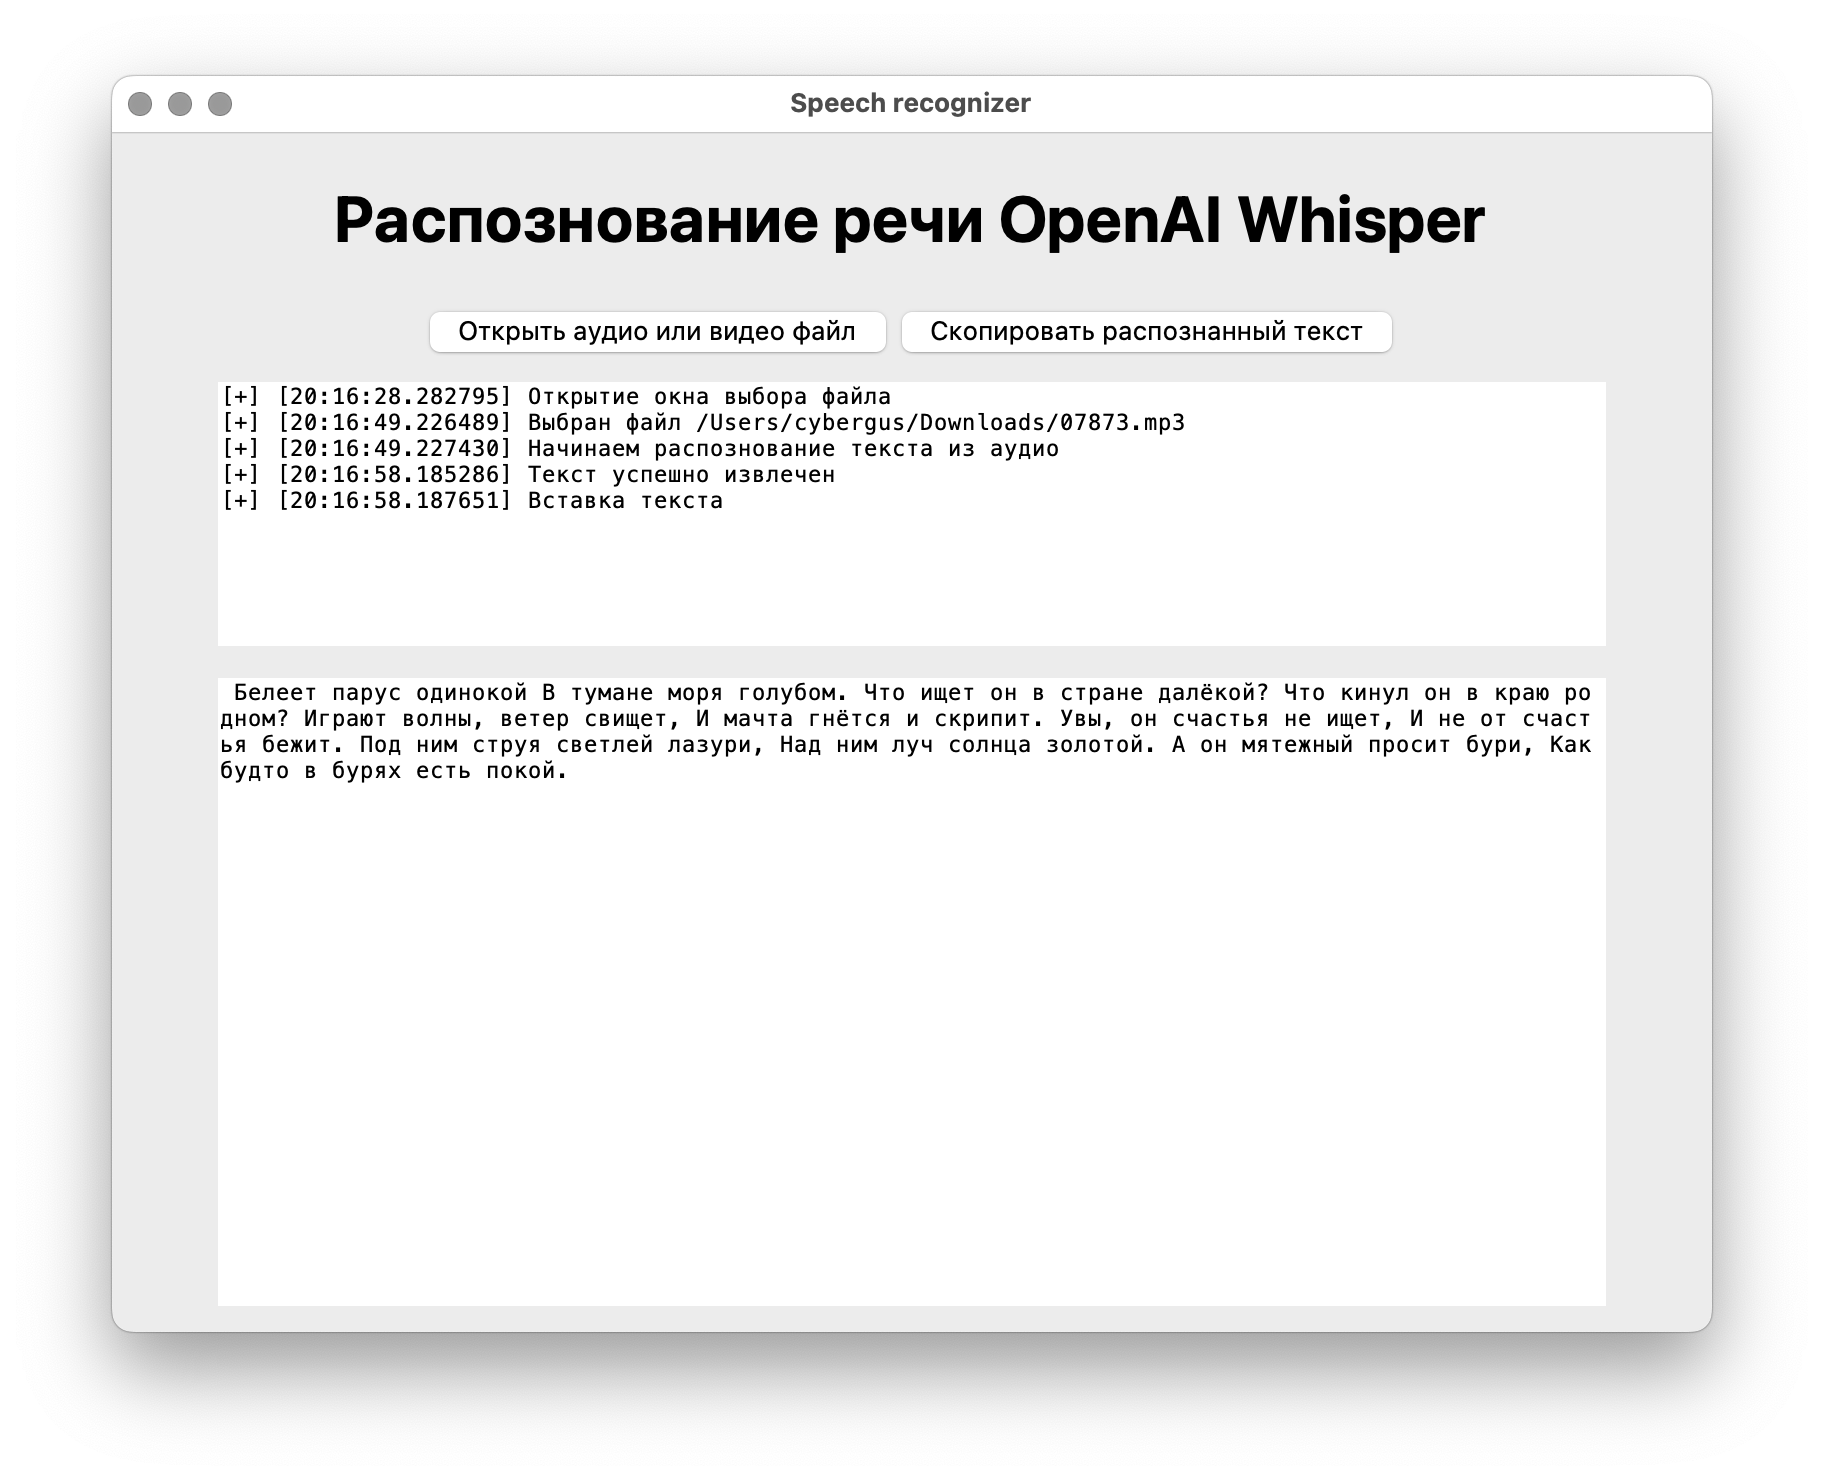
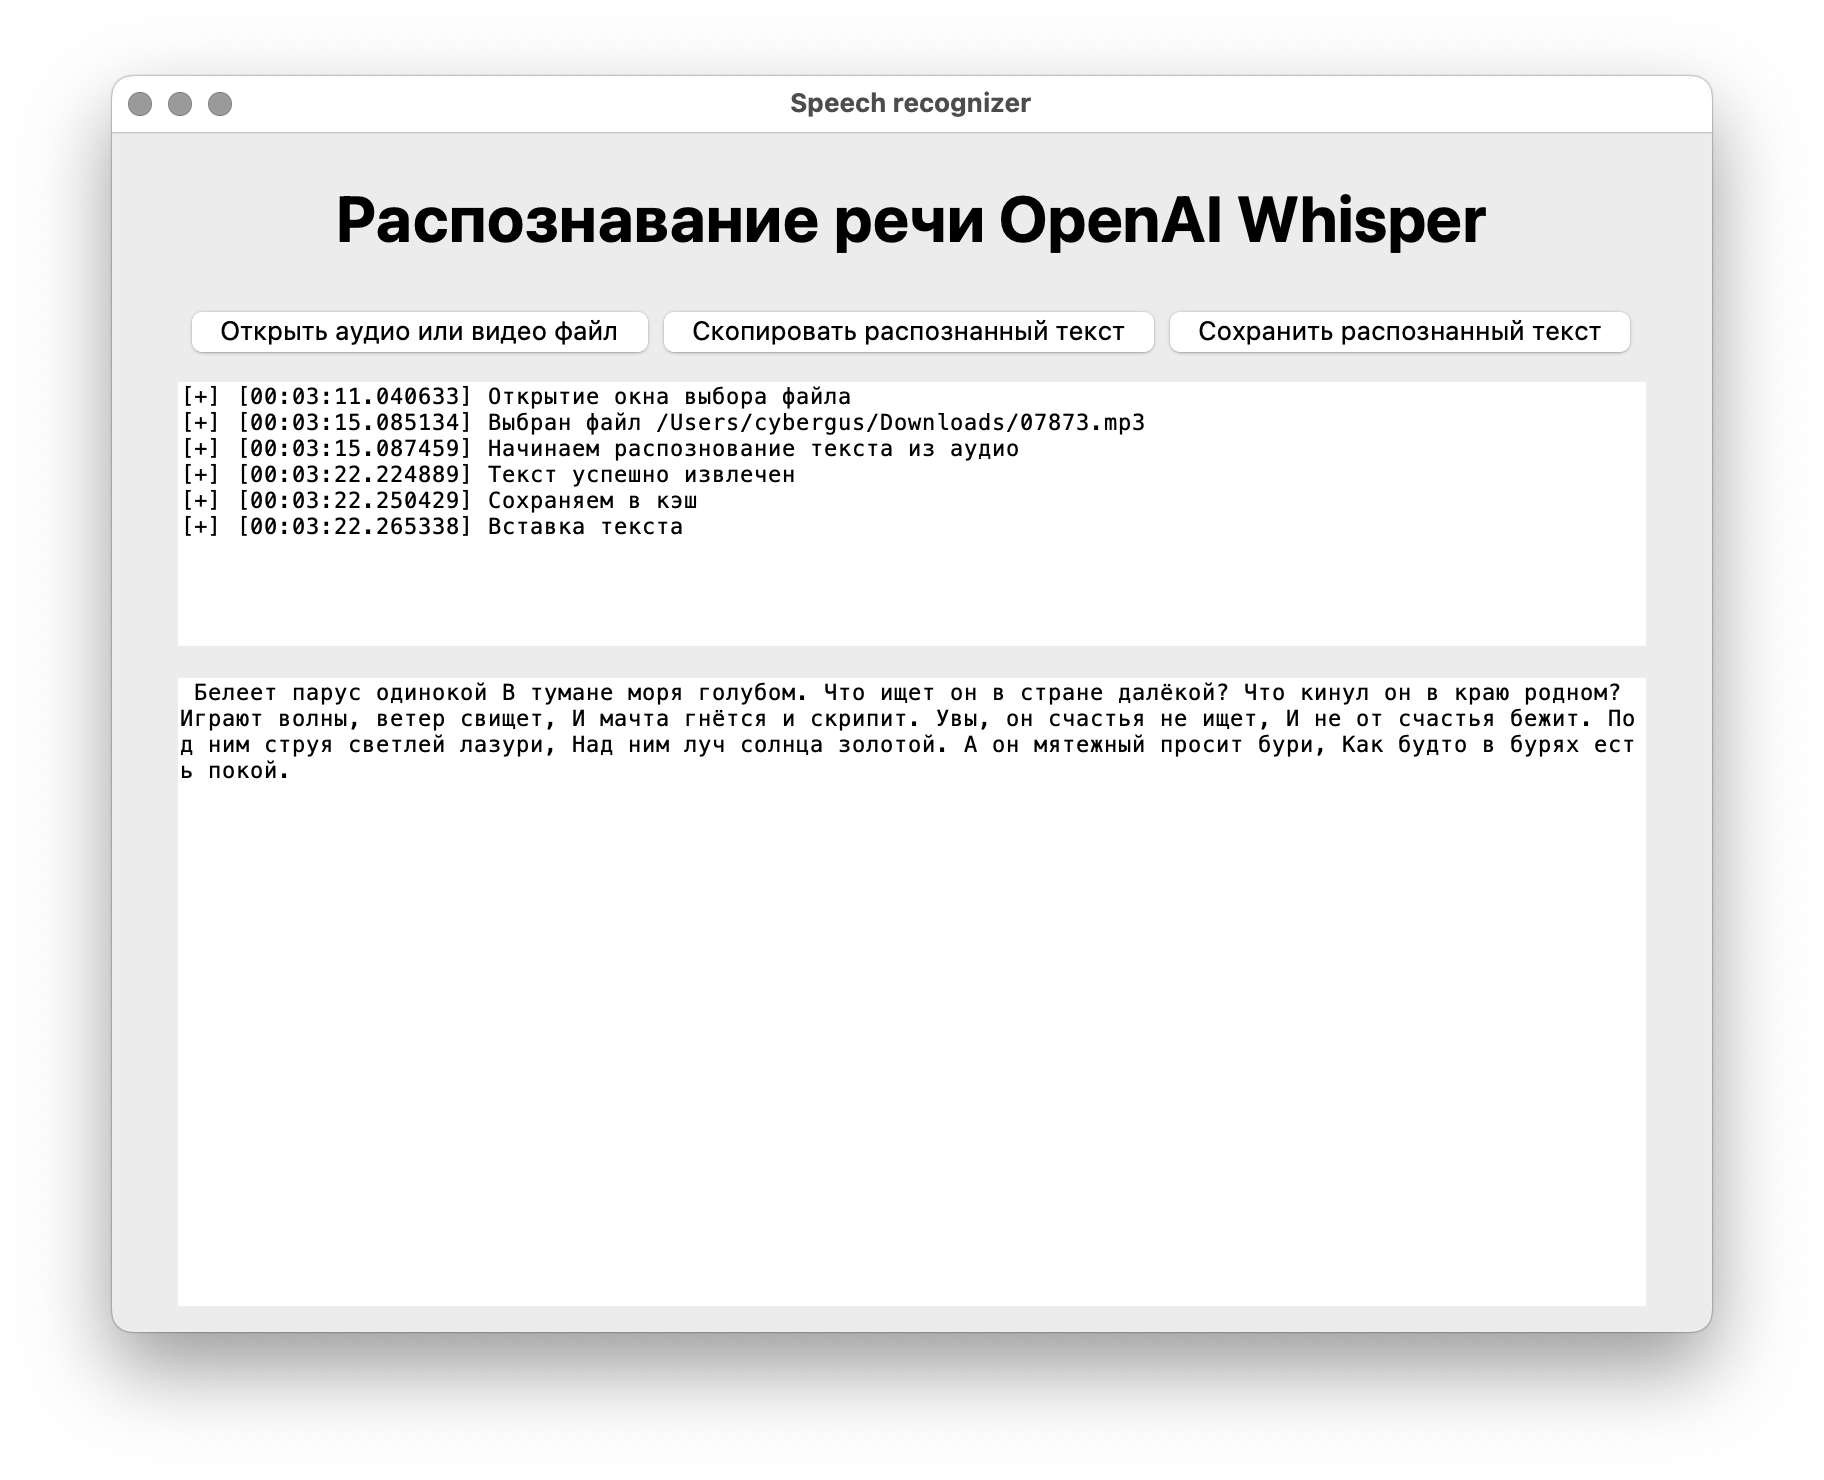
изменение readme

diff --git a/README.md b/README.md
@@ -143,5 +143,7 @@ python gui.py
 ### To-Do:
 
 - [ ] Добавить поддержку [GigaAM](https://github.com/salute-developers/GigaAM)
-- [ ] Сделать сохранение промежуточных результатов и уже полностью обработанных данных в кэш
+- [ ] Сделать сохранение в кэш
+    - [ ] Промежуточных результатов
+    - [x] Полностью обработанных данных
 - [ ] Добавить прогрессбар
